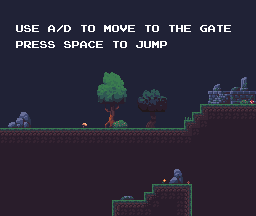
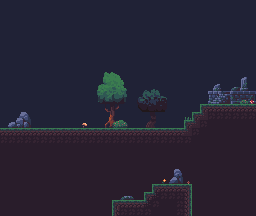
Added text guide to levels

diff --git a/src/level/level.py b/src/level/level.py
@@ -9,7 +9,6 @@ Most of the gameplay takes place here.
 from enum import Enum, unique, auto
 import pygame
 
-from src.entities.torch import Torch
 import src.tileset as Tileset
 from src.tileset import TileType
 from src.constants import resource_path, FPS
@@ -18,7 +17,6 @@ from src.tiledmap import TiledMap
 from src.player import Player, PlayerUpdateState, PlayerState
 from src.entities import *
 from src.guardian import Guardian, GuardianState
-import src.gamepad as Gamepad
 
 """
 INTERNAL NOTES:
@@ -75,13 +73,16 @@ class Level:
                  music_file: str,
                  camera_type: CameraState = CameraState.HORIZONTAL, 
                  hud_background: tuple[float] = (47, 36, 59),
-                 background_layer: bool = True):
+                 background_layer: bool = True,
+                 text_guides: list[Tileset.GuideText] = []):
         
         self.surface = surface
         self.level_no = level_no
         self.level_folder = resource_path(f"assets/levels/{self.level_no}")
         self.music_folder = resource_path("assets/music")
         self.music_file = music_file
+
+        self.text_guides = text_guides
 
         self.hud_background = hud_background
         self.background_layer: pygame.Surface | None = None
@@ -543,6 +544,9 @@ class Level:
 
         camera_pos = self.camera.get_pos()
         self.viewport.blit(self.platform_surface, (-camera_pos[0], -camera_pos[1]))
+
+        for text_guide in self.text_guides:
+            self.viewport.blit(text_guide.text_surf, (text_guide.pos[0] - camera_pos[0], text_guide.pos[1] - camera_pos[1]))
 
         player_is_dead = self.player.state == PlayerState.DEAD
 

diff --git a/src/scenes/game.py b/src/scenes/game.py
@@ -13,7 +13,15 @@ class Game(Scene):
         self.text = Tileset.render_string("Main Game")
 
         self.levels = [
-            Level(self.surface, 1, "peaceful.wav", background_layer=True),
+            Level(
+                self.surface, 
+                1, "peaceful.wav", 
+                background_layer=True,
+                text_guides=[
+                        Tileset.GuideText("Use A/D to move to the gate", (16, 24)),
+                        Tileset.GuideText("Press space to jump", (16, 40))
+                ]
+            ),
             Level(self.surface, 4, "peaceful.wav", background_layer=True),
             Level(self.surface, 5, "techno.wav", CameraState.VERTICAL, hud_background=(32, 34, 54), background_layer=False),
             Level(self.surface, 6, "difficult.wav", background_layer=True)

diff --git a/src/tileset.py b/src/tileset.py
@@ -160,3 +160,8 @@ def change_letter_color(tile: pygame.Surface, color: tuple[int, int, int]) -> py
     This essentially converts any black pixels to the new color.
     """
     return swap_color(tile, (255, 255, 255), color)
+
+class GuideText:
+    def __init__(self, text: str, pos: tuple[int, int]):
+        self.text_surf = render_string(text)
+        self.pos = list(pos)